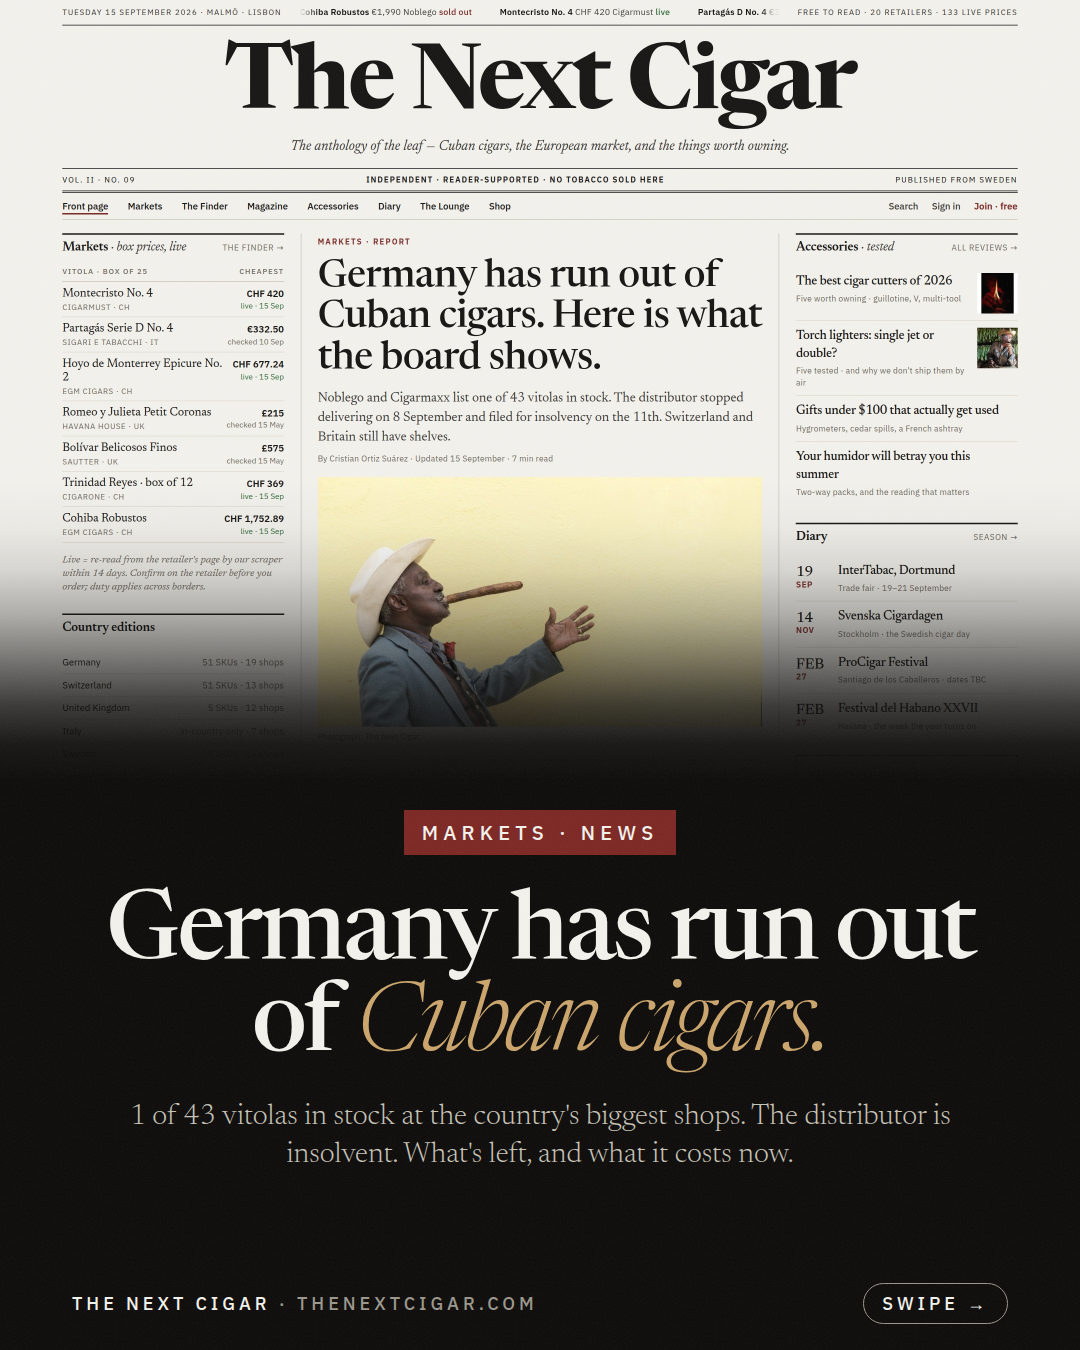
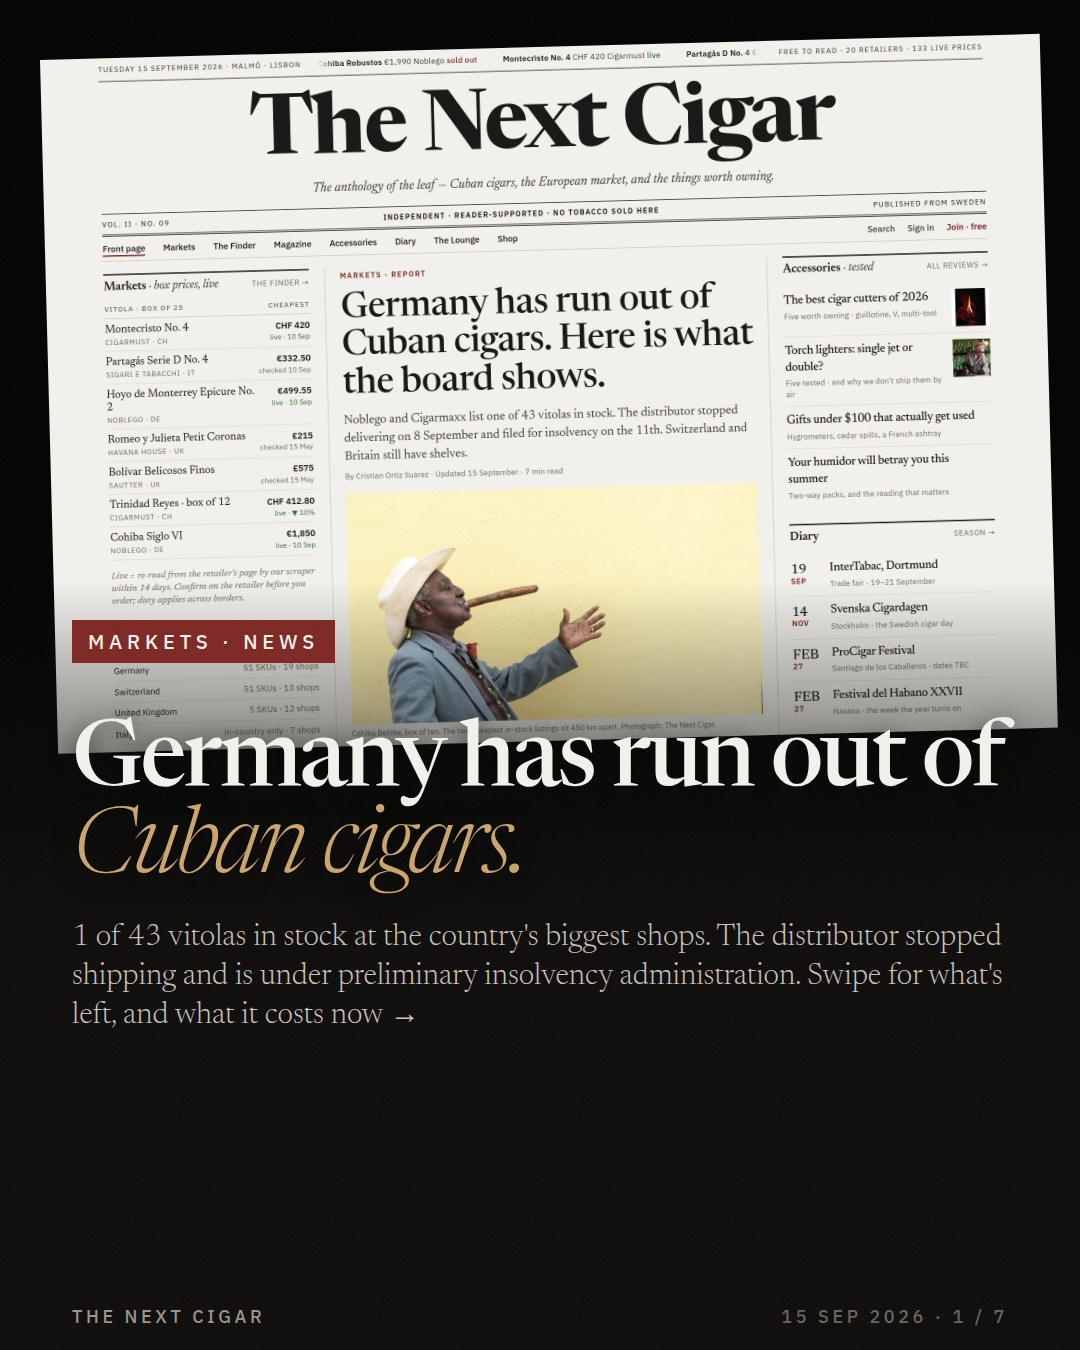
Germany story: correct timeline (4 Sep suspension, 9 Sep preliminary administration), ownership chain (Altabana 80%/Villiger 20%, Chen Zhi indirect) and sources; re-render deck 06 slides 1 & 3 and chart cover
Claude-Session: https://claude.ai/code/session_013HphmYBNP4FUaMByaE1uEh

diff --git a/docs/social/carousels/06-germany-shortage/source.html b/docs/social/carousels/06-germany-shortage/source.html
@@ -43,7 +43,7 @@ td small{display:block;font-family:'IBM Plex Sans';font-size:15px;letter-spacing
 <div class="slide over">
  <div class="paper"><img src="fp-crop.jpg"></div>
  <div class="grain"></div>
- <div class="band"><span class="tag">Markets · News</span><h2>Germany has run out of <i>Cuban cigars.</i></h2><p>1 of 43 vitolas in stock at the country's biggest shops. The distributor is insolvent. Swipe for what's left, and what it costs now →</p></div>
+ <div class="band"><span class="tag">Markets · News</span><h2>Germany has run out of <i>Cuban cigars.</i></h2><p>1 of 43 vitolas in stock at the country's biggest shops. The distributor stopped shipping and is under preliminary insolvency administration. Swipe for what's left, and what it costs now →</p></div>
  <div class="meta"><span><b>The Next Cigar</b></span><span>15 Sep 2026 · 1 / 7</span></div>
 </div>
 
@@ -59,12 +59,12 @@ td small{display:block;font-family:'IBM Plex Sans';font-size:15px;letter-spacing
  <div class="grain"></div>
  <div class="top"><div class="k"><b>Why</b> · the distributor</div>
   <table>
-   <tr><td class="n ok" style="text-align:left;width:150px;vertical-align:top">8 Sep</td><td>5th Avenue, the sole Habanos distributor for Germany, Austria and Poland, tells retailers shipments are suspended.</td></tr>
-   <tr><td class="n ok" style="text-align:left;vertical-align:top">11 Sep</td><td>The court in Waldshut-Tiengen appoints an insolvency administrator.</td></tr>
-   <tr><td class="n ok" style="text-align:left;vertical-align:top">Behind it</td><td>5th Avenue's parent is 80% owned by Prince Holding, which also owns half of Habanos S.A. The EU sanctioned Prince in July. A distributor that can't bank can't import.</td></tr>
+   <tr><td class="n ok" style="text-align:left;width:150px;vertical-align:top">4 Sep</td><td>5th Avenue, the sole Habanos distributor for Germany, Austria and Poland, tells retailers all orders and shipments are suspended, citing a sanctions review.</td></tr>
+   <tr><td class="n ok" style="text-align:left;vertical-align:top">9 Sep</td><td>The court in Waldshut-Tiengen orders preliminary insolvency administration. Retailers may keep selling stock on hand.</td></tr>
+   <tr><td class="n ok" style="text-align:left;vertical-align:top">Behind it</td><td>5th Avenue is 80% owned by Altabana, Habanos' own vehicle. Half of Habanos sits with Chen Zhi's Allied Cigar Corp. The EU sanctioned Chen Zhi and Prince Group on 30 July. A distributor that can't bank can't import.</td></tr>
   </table></div>
  <div class="band"><span class="tag">The cause</span><h2>One company. <i>Three countries.</i></h2><p>Retailers may sell what they have. What they have, on the board, is nearly nothing. Nobody has named a date for the next pallet.</p></div>
- <div class="meta"><span><b>The Next Cigar</b> · source: Cigar Aficionado, 8 & 11 Sep</span><span>3 / 7</span></div>
+ <div class="meta"><span><b>The Next Cigar</b> · sources: Tabakzeitung, Cigars-connect, OCCRP</span><span>3 / 7</span></div>
 </div>
 
 <div class="slide">

diff --git a/docs/social/captions-2026-09-13.md b/docs/social/captions-2026-09-13.md
@@ -32,4 +32,4 @@ MUL FEB 14. The month and the year are printed plainly and we decode them. The f
 
 ## Deck 06 — Germany has run out of Cuban cigars (15 Sep)
 
-Germany's biggest online cigar shops list one of the 43 Cuban vitolas we track as in stock. The distributor stopped delivering on 8 September and filed for insolvency on the 11th. Switzerland and Britain still have shelves — and a German who buys there pays 67 to 215 per cent more once the box has crossed the border. The full piece, with every number and its source, is on the site. Link in bio.
+Germany's biggest online cigar shops list one of the 43 Cuban vitolas we track as in stock. The distributor stopped shipping on 4 September and was placed under preliminary insolvency administration on the 9th. Switzerland and Britain still have shelves — and a German who buys there pays 67 to 215 per cent more once the box has crossed the border. The full piece, with every number and its source, is on the site. Link in bio.
